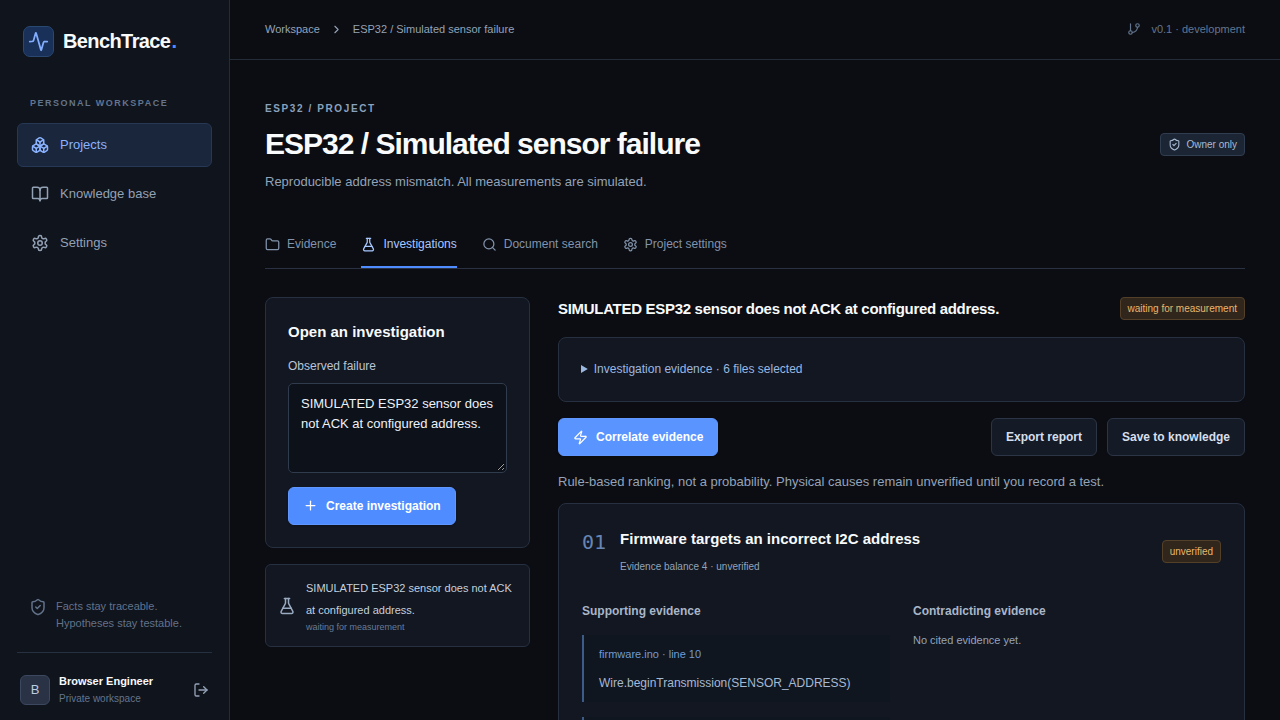
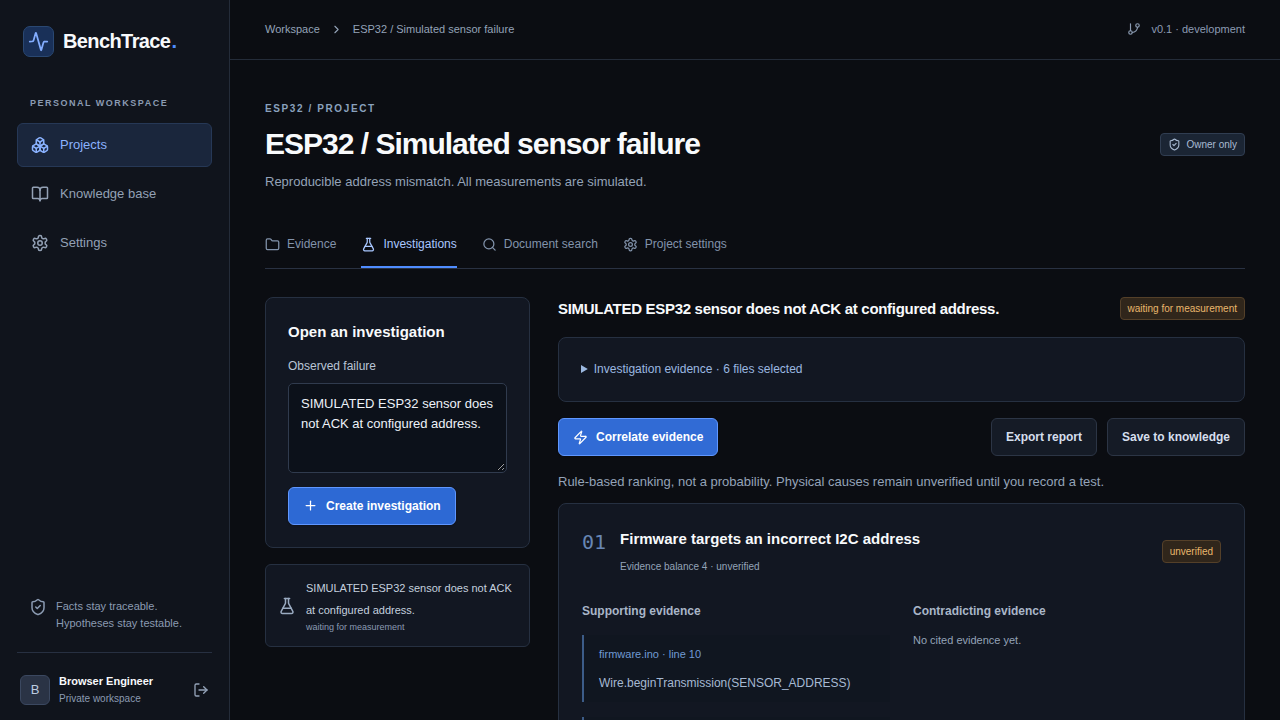
docs: record verified milestone and refresh screenshots

diff --git a/docs/REQUIREMENTS.md b/docs/REQUIREMENTS.md
@@ -5,7 +5,7 @@ Status describes demonstrated behavior, not the presence of a UI or a test name.
 | Requirement | Current implementation / evidence | Status / remaining proof |
 |---|---|---|
 | Repository inspection and baseline | Empty starting directory; Git history records roadmap and first implementation | Complete |
-| New GitHub repo and milestone pushes | https://github.com/pragyan43jain/benchtrace ; four published milestones | Complete, continue pushes |
+| New GitHub repo and milestone pushes | https://github.com/pragyan43jain/benchtrace ; five published milestones | Complete, continue pushes |
 | React/TS/Vite/Tailwind/shadcn/Lucide | Frontend build; source-owned Radix button; actual API-backed views | Implemented, retain browser regression |
 | Go REST, structured logs, modular backend | Domain-separated server files plus auth/storage packages | Implemented; strengthen service/module boundaries as needed |
 | Python/FastAPI/Pydantic, NumPy/SciPy/Pandas | Engine source and executed tests | Implemented |
@@ -19,7 +19,7 @@ Status describes demonstrated behavior, not the presence of a UI or a test name.
 | CSV, visualization, zoom/pan/selection | uPlot browser test, parsed capture fixtures | Verified browser channel selection, pan/reset and mobile width assertions |
 | Voltage/frequency/peaks/noise/sampling/FFT/filter/threshold/comparison | Numerical unit tests; viewer metrics, FFT, comparison API | Implemented filtered display; numerical tests and comparison API integration passed |
 | I2C, UART, SPI with sampling guards | Known waveform tests, four SPI modes, UART framing, I2C ACK/NACK | Implemented bounded modes; extend transition/timing edge-case tests |
-| Firmware functions/GPIO/protocol/init/delay/error handling | Comment/string-aware static patterns with line citations | Partial: inconsistent pin configurations and source explanation need broader tests |
+| Firmware functions/GPIO/protocol/init/delay/error handling | Comment/string-aware static patterns with line citations | Expanded constant resolution, pin-conflict and invalid-address explanations; targeted tests added, broader C/C++ static-analysis coverage remains |
 | KiCad components, pins, nets, power graph | `.net` connectivity, `.kicad_sch` symbol/label extraction, interactive net graph | Implemented supported subset; no schematic wire-geometry claim |
 | Diagnostic problem relevance and evidence selection | User-selected ready files, stored problem/symptoms and explicit unsupported-protocol refusal | Implemented; selection and ownership API regression passed |
 | Ranked competing hypotheses, contradictions, uncertainty and tests | Five rule families, source-count ranking, test records, fixed evaluations | Implemented; automatic update after recording new tests should be clearer |
@@ -31,9 +31,9 @@ Status describes demonstrated behavior, not the presence of a UI or a test name.
 | Input validation, SQL/path/CSRF/secrets/CORS | Negative API suite, no public internal services, same-origin policy | Implemented; atomic rate limits and storage quotas added |
 | Untrusted documents and prompt injection | No firmware execution, read-only engine, provider selects only existing citation IDs | Implemented disposable bounded parser processes and provider rejection tests; not a VM security boundary |
 | Database relationships/indexes/timestamps/migrations | Versioned schema, migration ledger, relationships and update timestamps | Implemented checksum-verified migration ledger, update triggers and project events |
-| Backend, engine, AI, frontend, integration tests | Executed tests recorded in ROADMAP; fixed diagnosis scenarios | Partial: close identified coverage gaps and run final unchanged tree |
+| Backend, engine, AI, frontend, integration tests | Executed tests recorded in ROADMAP; fixed diagnosis scenarios | Go race/vet, 52 engine tests, API/security integration, 4 browser tests and CI run 43373860041 passed; broader requirement coverage remains |
 | Docker deployment | Running local stack, API integration passes | Verified local; public cloud hosting not configured or claimed |
-| CI/CD | CI runs; first run failed on now-fixed browser locator; tag image workflow exists | Partial: obtain green final CI and exercise image publication |
+| CI/CD | CI runs; first run failed on now-fixed browser locator; tag image workflow exists | CI run 43373860041 green; versioned GHCR image publication still unverified |
 | Required docs/license/demo/screenshots | Docs exist; actual screenshots; disclosed simulation | README, reproducible PDF generator and screenshots complete; final status matrix remains open |
 | Responsive/accessibility/performance | Desktop workflow, mobile width assertion; lazy waveform code | Automated WCAG checks passed for landing/auth/project list desktop/mobile; full final workflow regression remains open |
 

diff --git a/ROADMAP.md b/ROADMAP.md
@@ -44,6 +44,12 @@ Created `docs/REQUIREMENTS.md` to preserve the full requested scope. Added struc
 
 Executed against the rebuilt stack: expanded API integration **passed**, including PDF upload, preferences, selected evidence, components/history, waveform comparison, procedures, verified filtering and account updates. Negative security integration **passed**. Engine suite **48 passed** against source (image regression is running). Frontend production build and **2 unit tests passed**; npm audit **0 vulnerabilities**. Prior Go and Python package scans were clean after remediation; current Go rescan and three browser scenarios are running.
 
-Remaining: finish the unchanged-image/browser checks, push and obtain green GitHub CI, exercise release-image publication, and close the remaining audit rows. No claim of 100% completion or public production hosting.
+Remaining: exercise release-image publication and close the remaining audit rows. No claim of 100% completion or public production hosting.
 
 Milestone 3 verification completed: rebuilt-image engine suite **48 passed** (one test-client deprecation warning); browser suite **3 passed** (full investigation, session restore/login/logout, owner-only WebSocket events); Go race tests and vet **passed**; `govulncheck` **no vulnerabilities found**. Both API integration suites passed on the rebuilt stack. Remaining work is tracked in the requirement audit; a green final CI and exercised release workflow are still required.
+
+## Milestone 4 — pinned retrieval and verification
+
+Pinned the semantic model to an immutable repository revision and verified every downloaded artifact with SHA-256 during image builds. Added vector identity to document and knowledge records, version-scoped cache/search behavior, and bounded idle-worker migration of legacy vectors from preserved source text. Firmware analysis now resolves common numeric constants and flags same-pin I2C setup and invalid seven-bit targets with contextual explanations. Added UART/SPI capture-boundary uncertainty reporting and automated WCAG scans.
+
+Verified: engine suite **52 passed**; API integration and negative security workflows passed; browser suite **4 passed**, including desktop/mobile WCAG scans; Go race tests/vet passed; GitHub Actions run **43373860041 succeeded** across Go, frontend, Docker, engine, API/security and browser jobs. Local database migration 003 applied and all 35 existing vectors carry the pinned model identity. GHCR image publication remains untested; no hosted production deployment is claimed.
